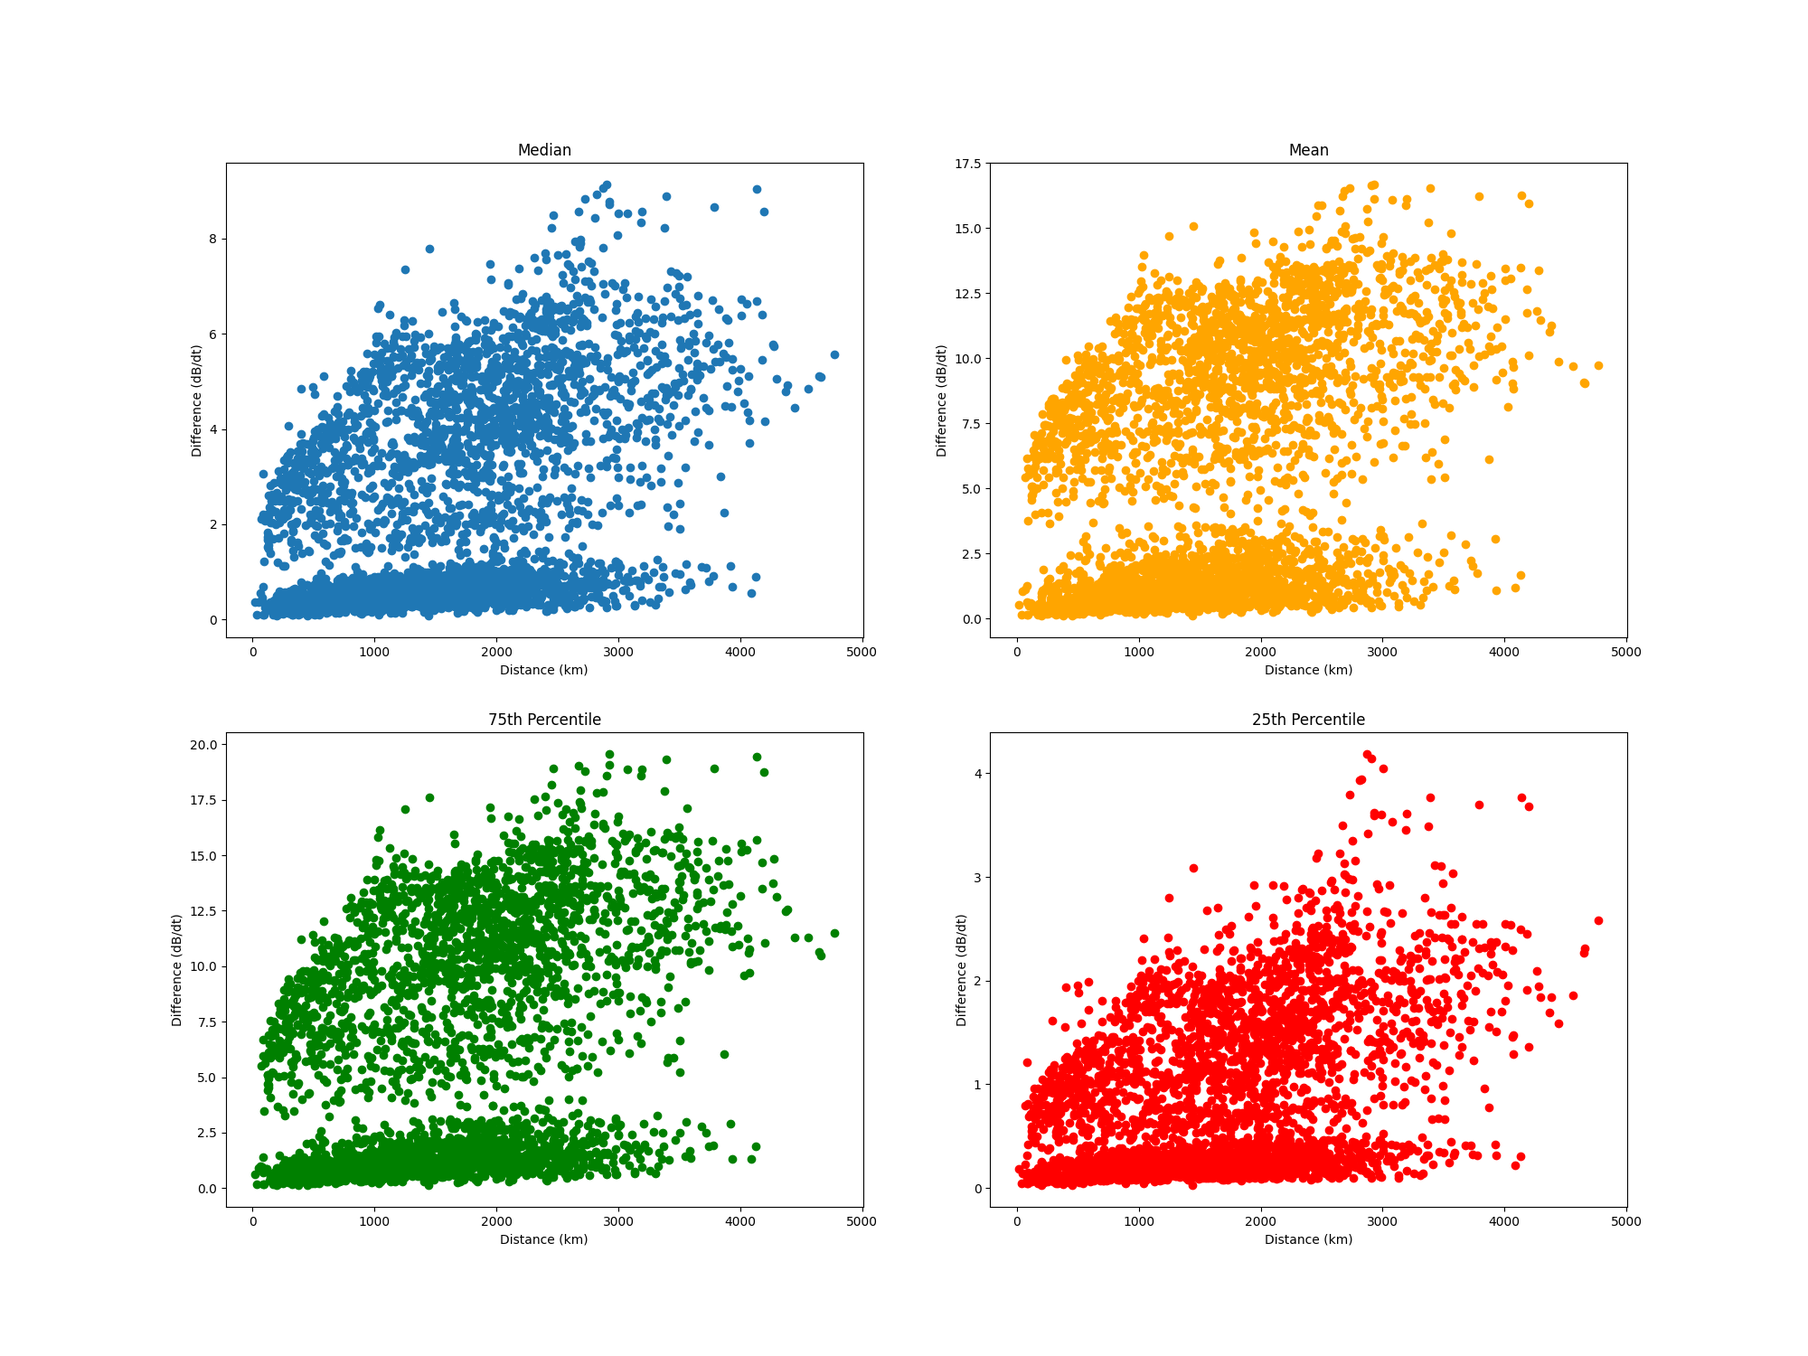
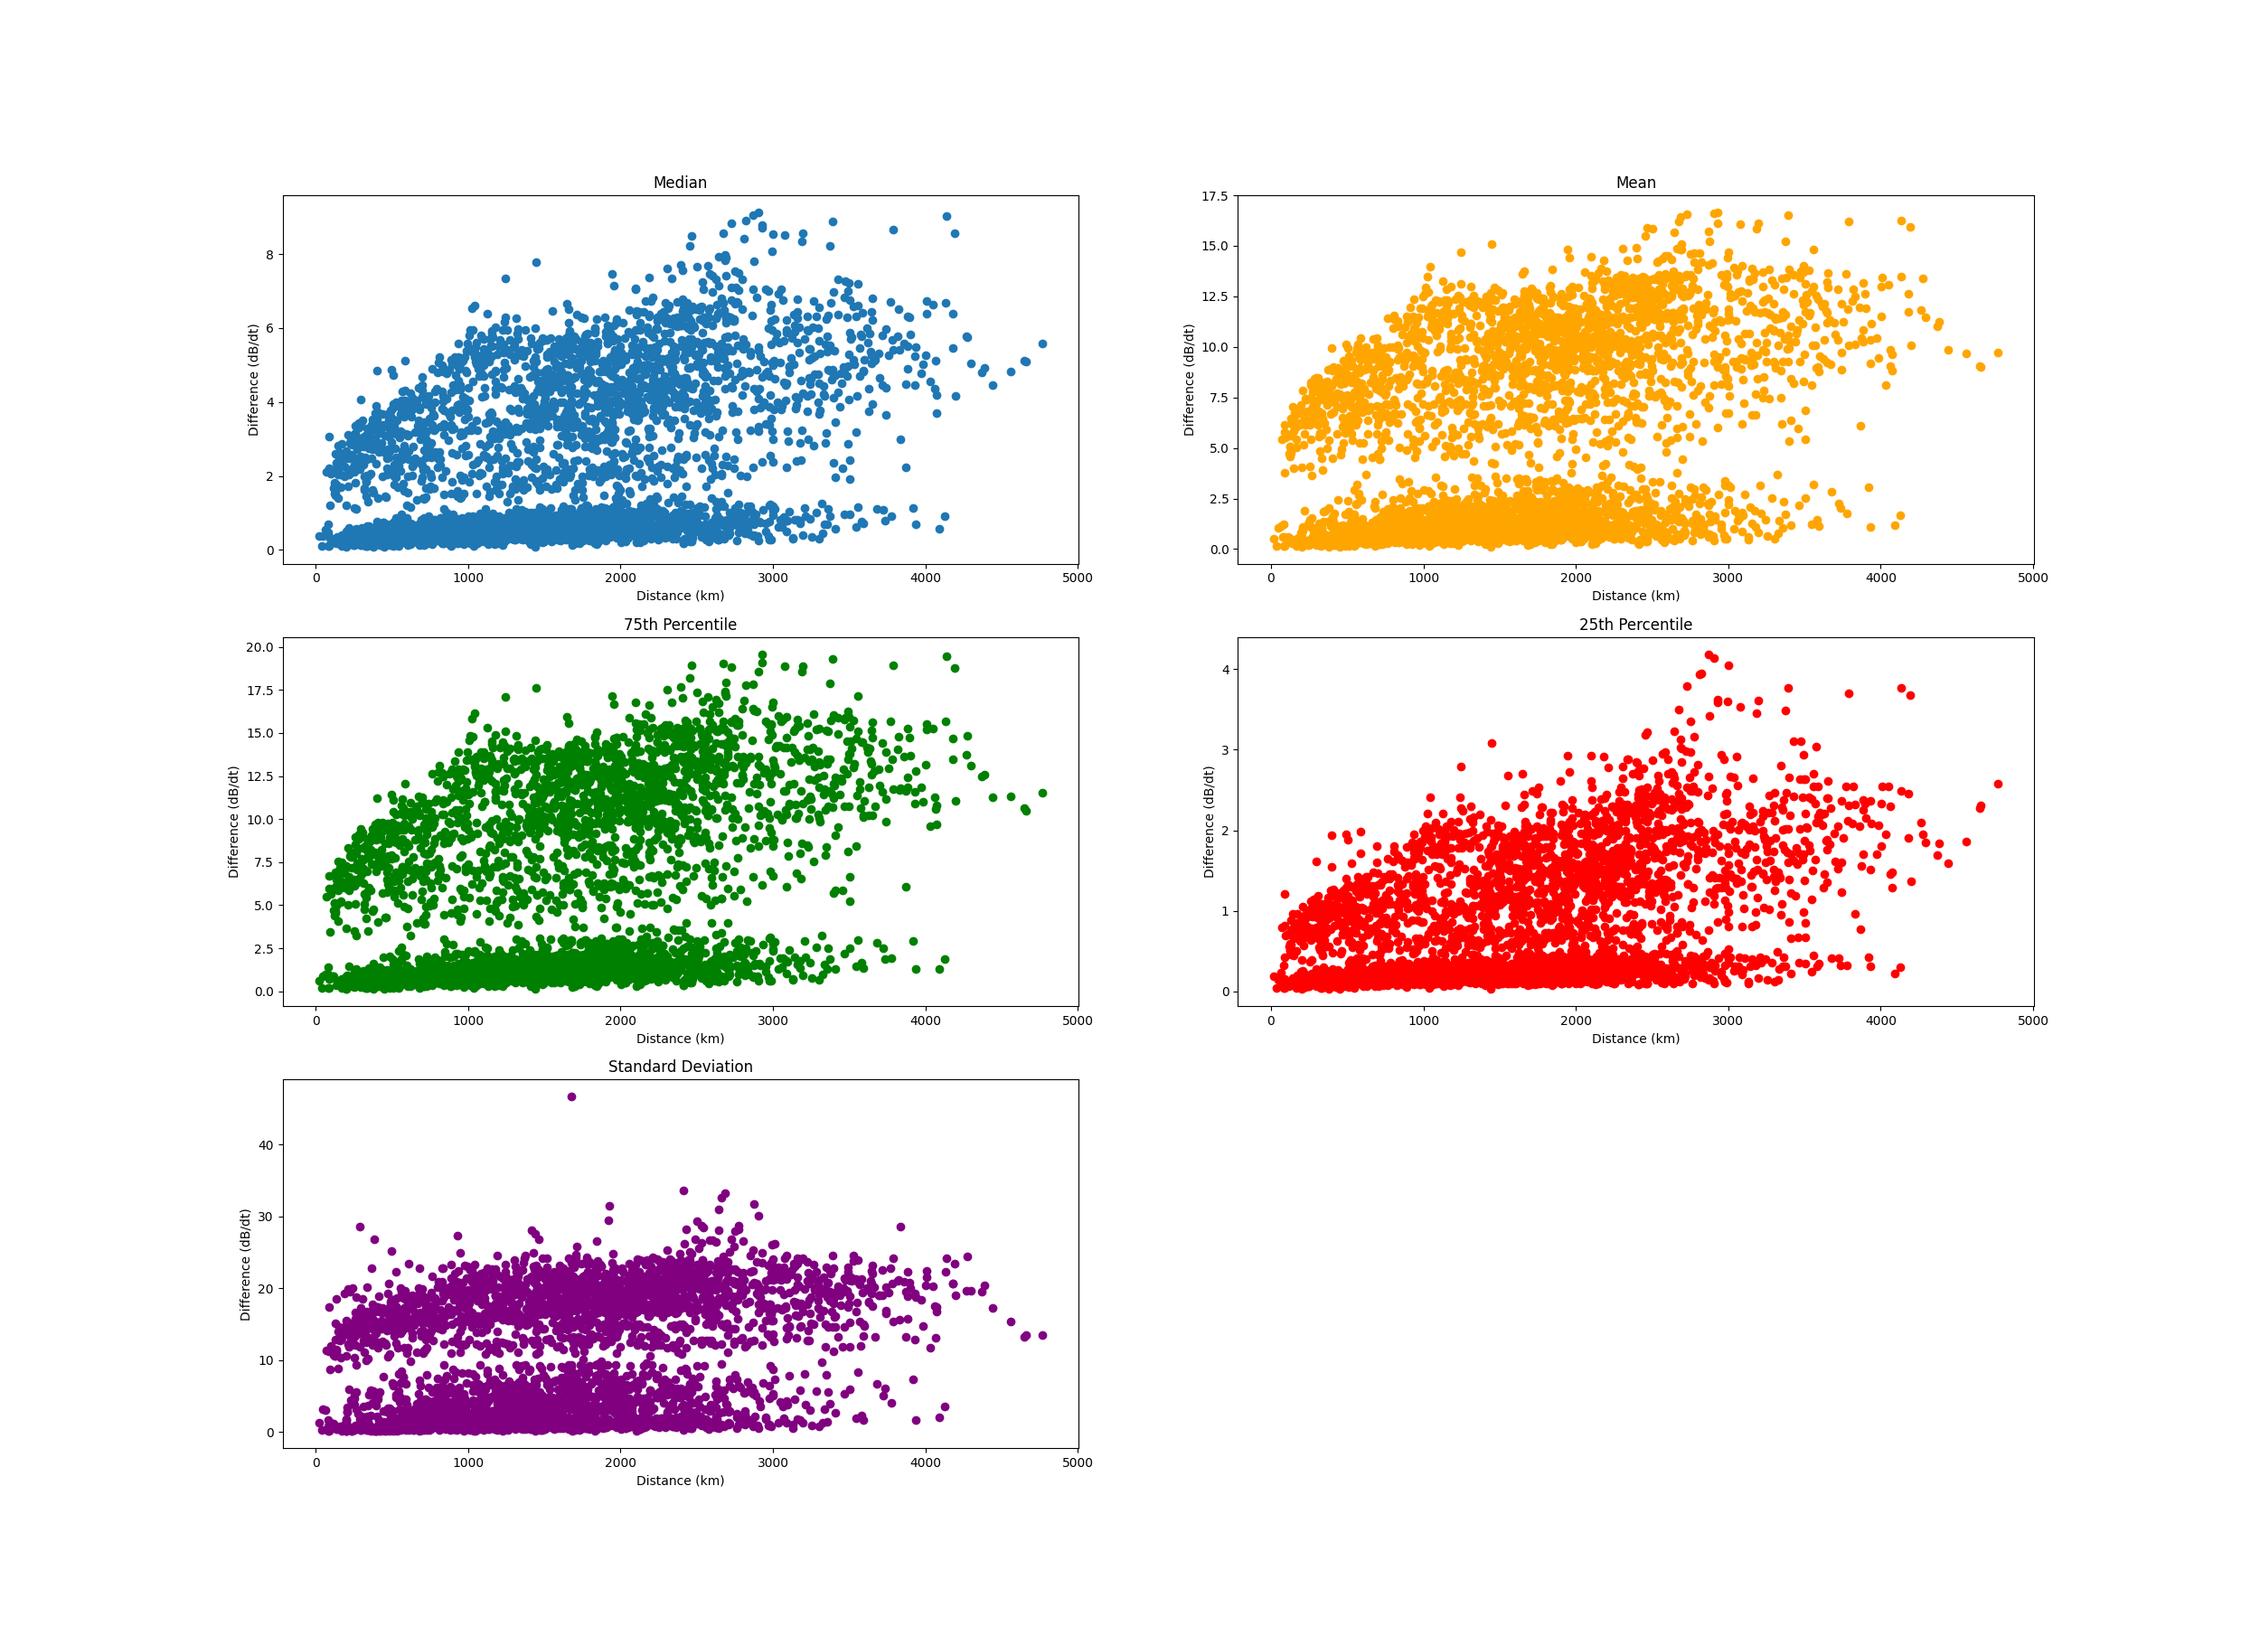
adding in standard dev to the analysis

diff --git a/pilot.py b/pilot.py
@@ -157,10 +157,11 @@ for station in tqdm(stations):
 print(stations[:5])
 print(stations[-5:])
 
-fig = plt.figure(figsize=(20,15))
+fig = plt.figure(figsize=(25,18))
 # ax2 = ax1.twinx()
 x, extreme_values, station_0, station_1 = [], [], [], []
-y_median, y_mean, y_topq, y_bottomq = [], [], [], []
+y_median, y_mean, y_topq, y_bottomq, y_std = [], [], [], [], []
+i=0
 for station in stations[:-1]:
 
 	if os.path.exists(f'outputs/{station}_storm_only_differences.feather'):
@@ -182,9 +183,17 @@ for station in stations[:-1]:
 			y_mean.append(y.mean())
 			y_topq.append(y.quantile(0.75))
 			y_bottomq.append(y.quantile(0.25))
+			y_std.append(y.std())
 			extreme_values.append(y[y>y.quantile(0.9999)].tolist())
 			station_0.append(station)
 			station_1.append(col)
+
+			if i==0:
+				plt.Figure()
+				plt.hist(y, bins=100, log=True)
+				plt.title(f'{station} and {col}')
+				plt.show()
+			i+=1
 
 		gc.collect()
 
@@ -203,15 +212,20 @@ for station in stations[:-1]:
 # ax1.plot(x_interp, y_interp_mean, '-', label='mean')
 # ax1.plot(x_interp, y_interp_topq, '-', label='75th perc.')
 # ax1.plot(x_interp, y_interp_bottomq, '-', label='25th perc.')
-ax1 = plt.subplot(221)
-ax2 = plt.subplot(222)
-ax3 = plt.subplot(223)
-ax4 = plt.subplot(224)
+fig = plt.figure(figsize=(25,18))
+
+ax1 = plt.subplot(321)
+ax2 = plt.subplot(322)
+ax3 = plt.subplot(323)
+ax4 = plt.subplot(324)
+ax5 = plt.subplot(325)
 
 ax1.scatter(x=x, y=y_median, label='median')
 ax2.scatter(x=x, y=y_mean, label='mean', color='orange')
 ax3.scatter(x=x, y=y_topq, label='75th perc.', color='green')
 ax4.scatter(x=x, y=y_bottomq, label='25th perc.', color='red')
+ax5.scatter(x=x, y=y_std, label='standard dev', color='purple')
+
 
 # for i in range(len(x)):
 # 	x_temp = [x[i]]*len(extreme_values[i])
@@ -222,16 +236,20 @@ ax1.set_xlabel('Distance (km)')
 ax2.set_xlabel('Distance (km)')
 ax3.set_xlabel('Distance (km)')
 ax4.set_xlabel('Distance (km)')
+ax5.set_xlabel('Distance (km)')
 
 ax1.set_ylabel('Difference (dB/dt)')
 ax2.set_ylabel('Difference (dB/dt)')
 ax3.set_ylabel('Difference (dB/dt)')
 ax4.set_ylabel('Difference (dB/dt)')
+ax5.set_ylabel('Difference (dB/dt)')
+
 
 ax1.set_title('Median')
 ax2.set_title('Mean')
 ax3.set_title('75th Percentile')
 ax4.set_title('25th Percentile')
+ax5.set_title('Standard Deviation')
 
 # # Set y-axis label for extreme values
 # ax2.set_ylabel('Difference (dB/dt)', color='r')
@@ -241,7 +259,7 @@ ax4.set_title('25th Percentile')
 # ax2.legend(loc='upper right')
 plt.savefig('difference_and_distance_boxplots.png')
 
-fig = plt.figure(figsize=(20,15))
+fig = plt.figure(figsize=(25,18))
 ax1 = plt.subplot(111)
 for i in range(len(x)):
 	x_temp = [x[i]]*len(extreme_values[i])
@@ -283,33 +301,46 @@ db_bottomq_model.fit(db_bottomq_input)
 bottomq_labels = db_bottomq_model.predict(db_bottomq_input)
 data_bottomq['cluster'] = bottomq_labels
 
+print('Starting DBSCAN std....')
+db_std_model = GaussianMixture(n_components=2, covariance_type='full')
+data_std = pd.DataFrame({'x':x,'y':y_std,'station_0':station_0,'station_1':station_1}).dropna()
+db_std_input = data_std[['x','y']].values
+db_std_model.fit(db_std_input)
+std_labels = db_std_model.predict(db_std_input)
+data_std['cluster'] = std_labels
 
-fig = plt.figure(figsize=(20,15))
-ax1 = plt.subplot(221)
-ax2 = plt.subplot(222)
-ax3 = plt.subplot(223)
-ax4 = plt.subplot(224)
+
+fig = plt.figure(figsize=(25,18))
+ax1 = plt.subplot(321)
+ax2 = plt.subplot(322)
+ax3 = plt.subplot(323)
+ax4 = plt.subplot(324)
+ax5 = plt.subplot(325)
 
 ax1.scatter(x=data_median['x'], y=data_median['y'], label='median', c=median_labels)
 ax2.scatter(x=data_mean['x'], y=data_mean['y'], label='mean', c=mean_labels)
 ax3.scatter(x=data_topq['x'], y=data_topq['y'], label='75th perc.', c=topq_labels)
 ax4.scatter(x=data_bottomq['x'], y=data_bottomq['y'], label='25th perc.', c=bottomq_labels)
+ax5.scatter(x=data_std['x'], y=data_std['y'], label='STD', c=std_labels)
 
 # Set y-axis label for significant points
 ax1.set_xlabel('Distance (km)')
 ax2.set_xlabel('Distance (km)')
 ax3.set_xlabel('Distance (km)')
 ax4.set_xlabel('Distance (km)')
+ax5.set_xlabel('Distance (km)')
 
 ax1.set_ylabel('Difference (nT/min)')
 ax2.set_ylabel('Difference (nt/min)')
 ax3.set_ylabel('Difference (nT/min)')
 ax4.set_ylabel('Difference (nT/min)')
+ax5.set_ylabel('Difference (nT/min)')
 
 ax1.set_title('Median')
 ax2.set_title('Mean')
 ax3.set_title('75th Percentile')
 ax4.set_title('25th Percentile')
+ax5.set_title('STD')
 
 # Set the legend
 # ax1.legend(loc='upper left')
@@ -320,11 +351,13 @@ data_median.reset_index(inplace=True, drop=True)
 data_mean.reset_index(inplace=True, drop=True)
 data_topq.reset_index(inplace=True, drop=True)
 data_bottomq.reset_index(inplace=True, drop=True)
+data_std.reset_index(inplace=True, drop=True)
 
 data_median.to_feather('outputs/data_median.feather')
 data_mean.to_feather('outputs/data_mean.feather')
 data_topq.to_feather('outputs/data_topq.feather')
 data_bottomq.to_feather('outputs/data_bottomq.feather')
+data_std.to_feather('outputs/data_std.feather')
 
 
 
